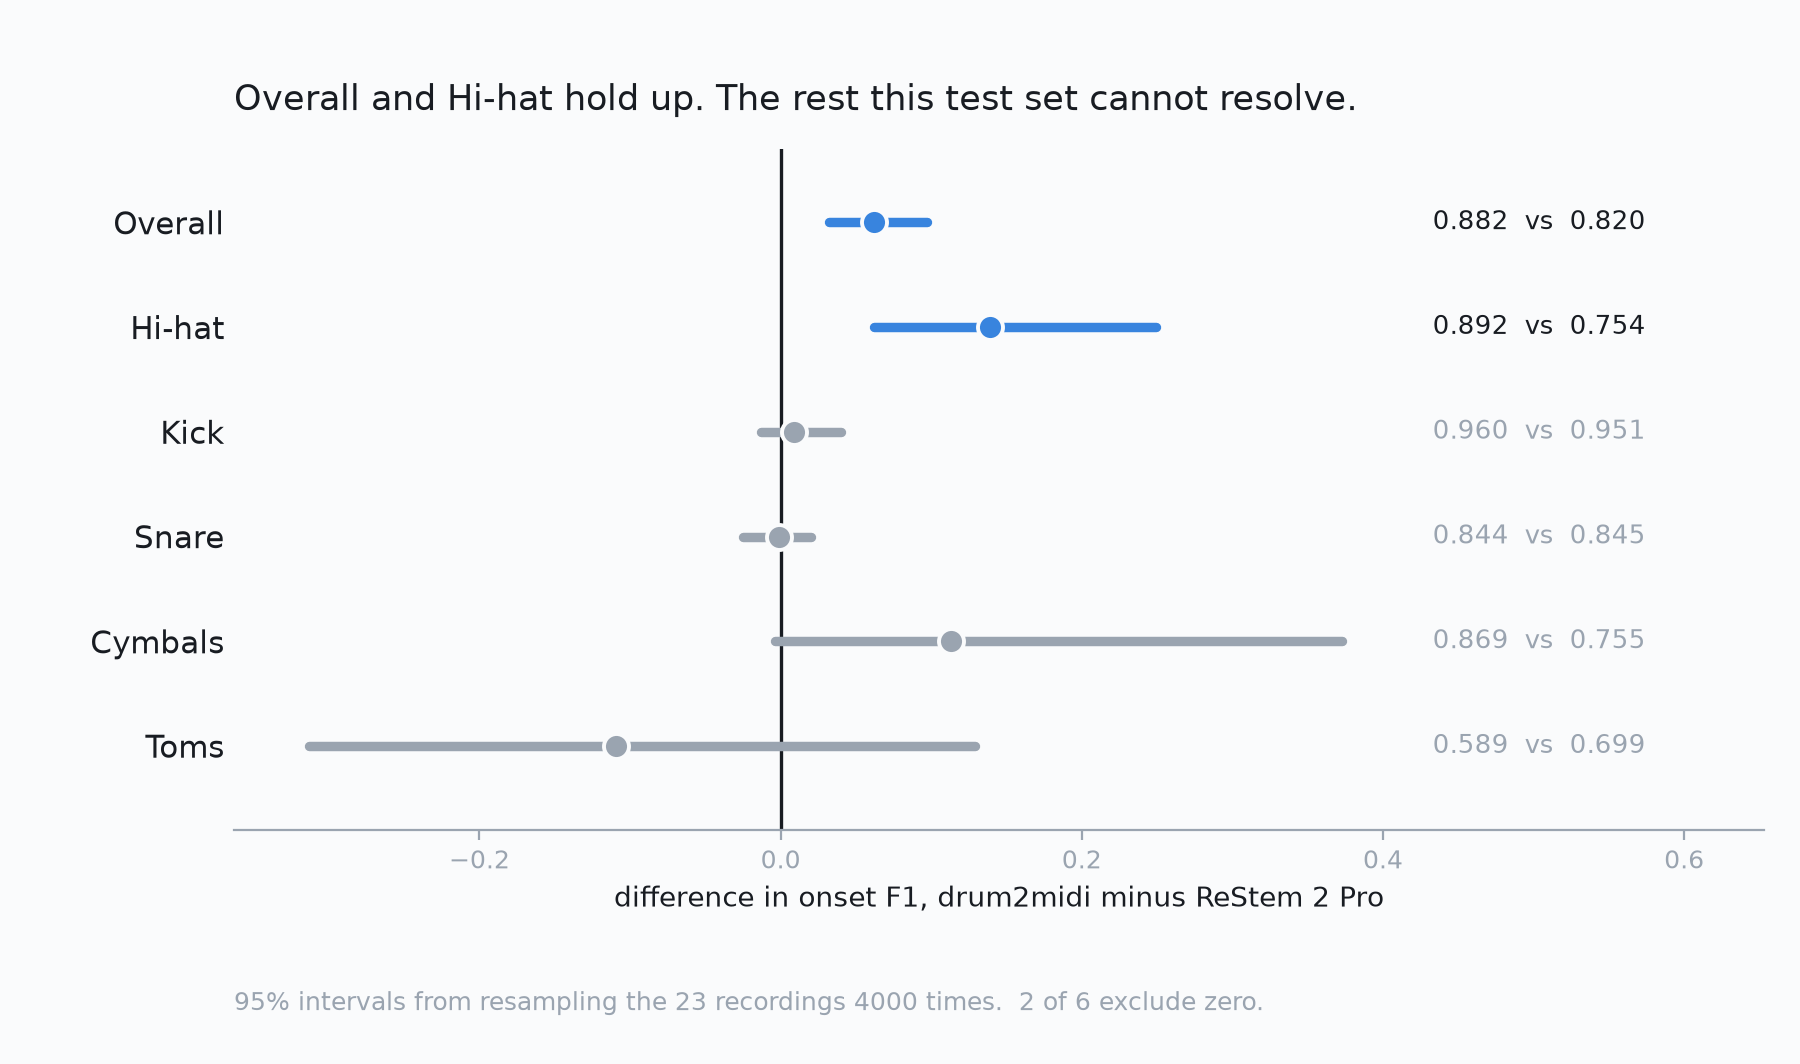
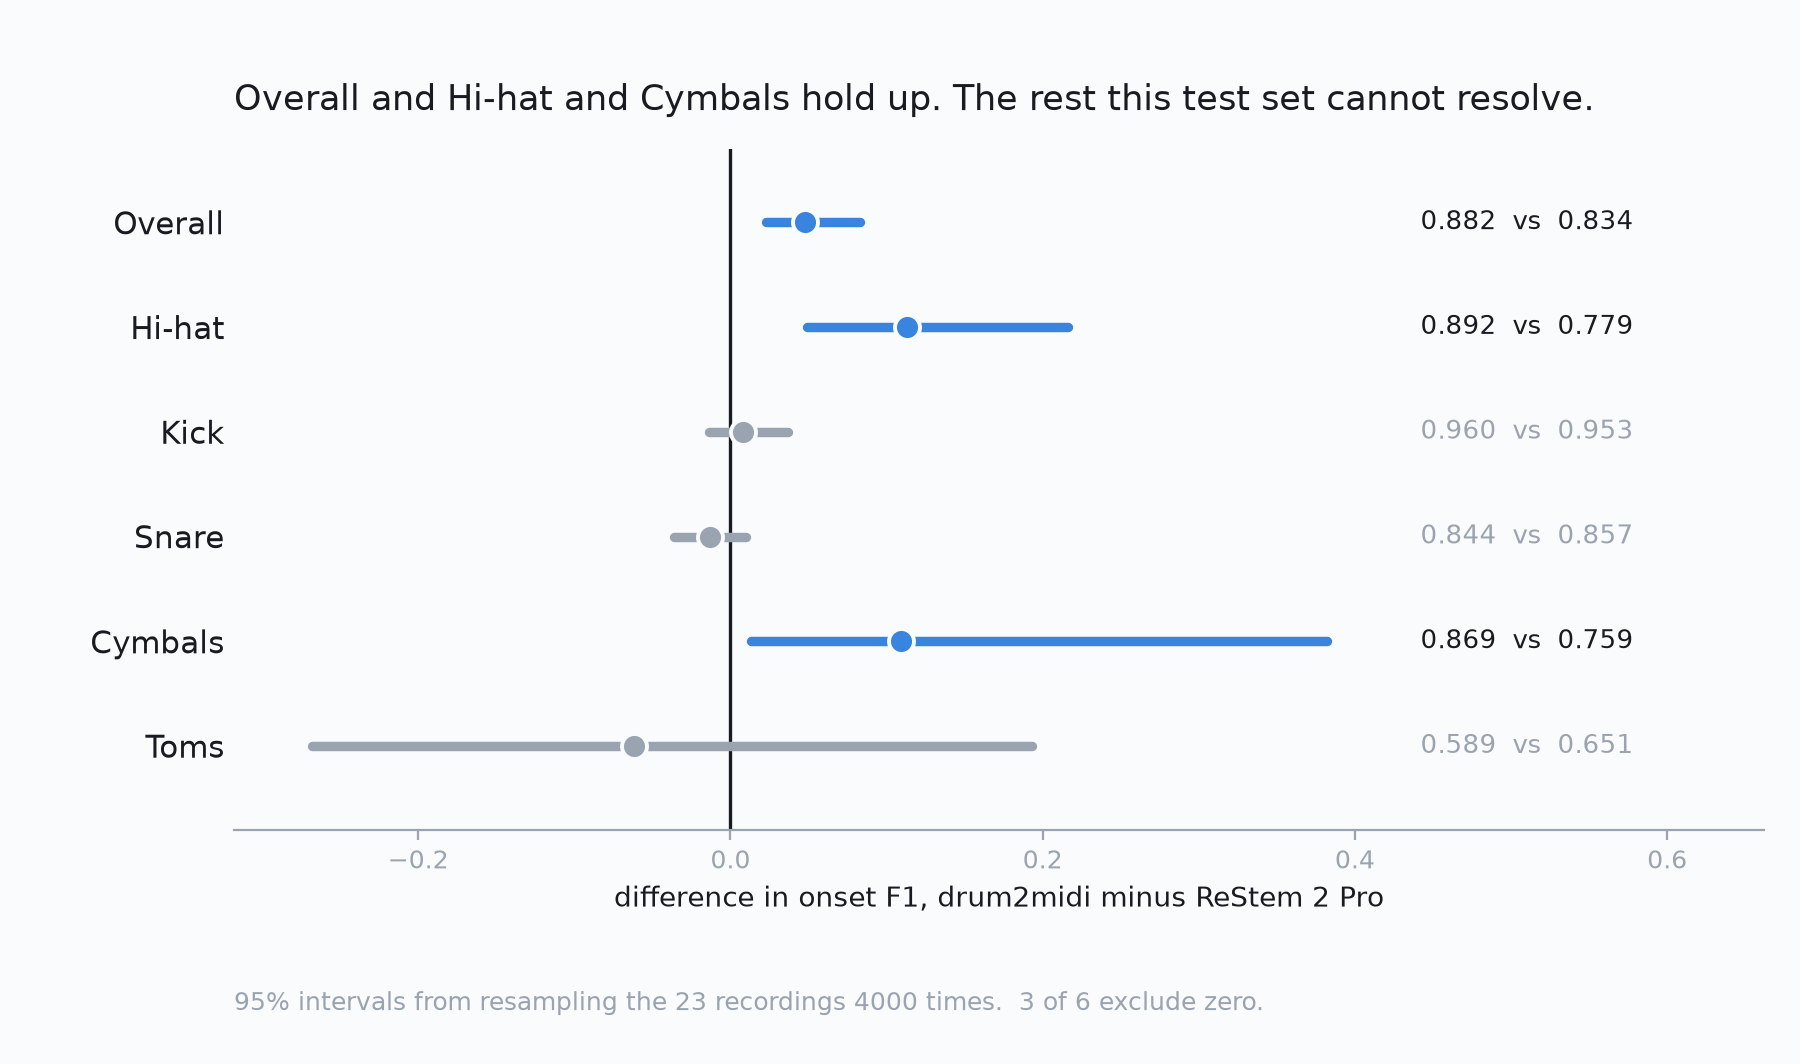
Restated against ReStem best mode: the published margin was measured on its weaker one
He put it plainly earlier: do not claim to be better while running their
product in something other than its best mode. This is the measurement that
settles it, and it goes against us.

All three offline modes have now been rendered across all 23 recordings on
one machine, so no backend or corpus difference is mixed in. Better and Best
Offline are byte-identical on every one of the 23 tracks -- that selector
does not reach their trigger engine at all, and the claim that previously
rested on 3 tracks and 5.6% of events now rests on all of them. Bleed
Reduction is different: it is worth +0.014 MICRO to ReStem.

So the headline becomes 0.882 against 0.834, not 0.820. Our margin falls
from +0.062 to +0.048, interval [+0.023, +0.083], still clear of zero. The
hi-hat margin falls from +0.139 to +0.113. One row moves the other way:
cymbals now excludes zero at [+0.013, +0.382], so three rows are resolved
rather than two.

Per class, Bleed Reduction gains ReStem the snare 0.845 to 0.857 and the
hi-hat 0.754 to 0.779, and costs it the toms 0.699 to 0.651.

The chart is redrawn from the new significance output, the caption follows
it, and the old figure is not quoted anywhere without the note saying it was
the weaker configuration. The letter carries the corrected table and says
which way the correction went.

diff --git a/README.md b/README.md
@@ -14,31 +14,41 @@ in the repository at [`docs/pitch.mp4`](docs/pitch.mp4) for anyone reading this 
 GitHub. The drum track is from the Groove MIDI Dataset, Magenta / Google, CC BY 4.0.</sub>
 
 **Measured against [ReStem 2 Pro](https://restemapp.com/restem2)** — a $199 commercial
-product — on 23 hand-annotated recordings:
+product — on 23 hand-annotated recordings, **in its best mode**:
 
 | | drum2midi | ReStem 2 Pro | 95% CI on the difference |
 |---|---|---|---|
-| **Overall onset F1** | **0.882** | 0.820 | **[+0.032, +0.097]** |
-| Kick | 0.960 | 0.951 | [−0.013, +0.040] |
-| Snare | 0.844 | 0.845 | [−0.025, +0.020] |
-| Hi-hat | **0.892** | 0.754 | **[+0.062, +0.249]** |
-| Cymbals | 0.869 | 0.755 | [−0.004, +0.373] |
-| Toms | 0.589 | 0.699 | [−0.313, +0.129] |
+| **Overall onset F1** | **0.882** | 0.834 | **[+0.023, +0.083]** |
+| Kick | 0.960 | 0.953 | [−0.014, +0.037] |
+| Snare | 0.844 | 0.857 | [−0.036, +0.010] |
+| Hi-hat | **0.892** | 0.779 | **[+0.049, +0.216]** |
+| Cymbals | **0.869** | 0.759 | **[+0.013, +0.382]** |
+| Toms | 0.589 | 0.651 | [−0.268, +0.193] |
 | Ghost notes (recall) | 0.718 | 0.747 | — |
 | Ride vs crash | 0.917 | 0.953 | — |
 | Hi-hat articulation | 0.690 | 0.691 | — |
 
-![The same table as a plot: Overall and Hi-hat exclude zero, the other four straddle it](docs/comparison.png)
+> **This table was restated on 20 September and the earlier one flattered us.** Every
+> figure above had been measured with ReStem in **Better (Offline)**, which is not its
+> best setting. All three of its offline modes have now been rendered across all 23
+> recordings on the same machine: Better and Best (Offline) are **byte-identical on every
+> track**, but **Best + Bleed Reduction is genuinely better for ReStem** — 0.834 against
+> 0.820. Our margin drops from +0.062 to **+0.048** and the hi-hat margin from +0.139 to
+> +0.113. One row moved the other way: cymbals now clears zero. The comparison is against
+> their strongest configuration from here on, and the weaker number is not quoted anywhere
+> without this note.
+
+![The same table as a plot: Overall, Hi-hat and Cymbals exclude zero, the other three straddle it](docs/comparison.png)
 
 *Drawn by `plot_comparison.py` from `significance.py`'s own output, so the picture cannot
 drift from the table. The last three rows have no interval and are not plotted.*
 
-**Only two of those rows mean anything.** The intervals come from resampling the 23
+**Only three of those rows mean anything.** The intervals come from resampling the 23
 recordings 4000 times (`significance.py`), and every row whose interval contains zero is
 a difference this test set cannot resolve. The overall win is real, and it is carried
-almost entirely by the hi-hat. The per-class rows for kick, snare, cymbals and **toms**
-are not evidence of anything: MDB holds just **90 tom onsets, 1.14% of the set**, so the
-tom interval is ±0.22 and spans both directions.
+almost entirely by the hi-hat. The per-class rows for kick, snare and **toms** are not
+evidence of anything: MDB holds just **90 tom onsets, 1.14% of the set**, so the tom
+interval is ±0.23 and spans both directions.
 
 > **⚠ These are our measurements of someone else's product, and they may be wrong.**
 > ReStem's developers were not involved in any of this and have not reviewed it. We are
@@ -73,13 +83,12 @@ tom interval is ±0.22 and spans both directions.
 > raises it. We have asked, and undertaken to re-run all 23 recordings at whatever they
 > say.
 >
-> **Nor is it established that ReStem ran in its best mode.** These runs used Better
-> (Offline), which is byte-identical to Best (Offline) on the three tracks checked. Best
-> (Offline) + Bleed Reduction is a different matter — it changes the output, and has been
-> scored on two tracks, where it was worse for ReStem. Two tracks settles nothing in
-> either direction, so the fair description of this table is *against Better*, not
-> *against ReStem at its best*. All 23 are queued for a Best + Bleed Reduction run and
-> the result is published whichever way it falls.
+> **Its best mode is now the one measured, and it was not before.** These figures use
+> Best (Offline) + Bleed Reduction. All three offline modes were rendered across all 23
+> recordings on one machine: Better and Best (Offline) came out byte-identical on every
+> track, so that pair is settled, and Bleed Reduction is worth +0.014 MICRO to ReStem.
+> The earlier published figure of 0.820 was its weaker configuration and has been
+> restated rather than quietly replaced.
 >
 > The ReStem team have not been written to yet. The letter is written and not sent, and
 > publication was deliberately not made to wait on it — which means that as things stand
@@ -895,18 +904,15 @@ people with an obvious stake in the answer. Seven specific reasons to hold it lo
   regrouping the tracks by genre and dropping a whole genre moves the delta by at most
   0.015, against a published interval of ±0.032 — so *that* form of unrepresentativeness
   does not reach the answer. Which is a narrower reassurance than it sounds.
-- **It has not been established that ReStem ran in its best mode, and that matters more
-  than the rest of this list.** The 23 renders used Better (Offline). Better and Best
-  (Offline) are byte-identical on the three tracks rendered both ways, so that choice
-  appears to cost ReStem nothing. But Best (Offline) **+ Bleed Reduction** genuinely
-  differs — it moved the events on all three — and it has only ever been *scored* on two,
-  where it came out lower for ReStem (0.466 against 0.500; 0.915 against 0.931). Two
-  tracks is not a basis for concluding that their most expensive setting is their weaker
-  one, and it is not a basis on which to claim a win either. Until all 23 have been
-  rendered in Best + Bleed Reduction and scored, **the honest statement is that this
-  comparison is against Better, not against ReStem at its best, and we do not yet know
-  whether those differ.** That run is queued; whichever way it comes out is published, and
-  if Best + Bleed Reduction scores higher the headline is restated against it.
+- **~~It has not been established that ReStem ran in its best mode.~~ Settled, and we
+  were using the weaker one.** All three offline modes have now been rendered across all
+  23 recordings on a single machine. Better and Best (Offline) are byte-identical on
+  every track, so that choice never cost ReStem anything. Best + Bleed Reduction is a
+  different matter: it is worth **+0.014 MICRO to ReStem**, 0.834 against 0.820, and the
+  published comparison had been measured against the weaker setting. The table has been
+  restated. Two of the differences this changes are worth naming: Bleed Reduction gains
+  ReStem the snare (0.845 → 0.857) and the hi-hat (0.754 → 0.779) and costs it the toms
+  (0.699 → 0.651).
 - **ReStem was never run on a second corpus.** Our own 0.935 on IDMT-SMT-Drums is a
   second-corpus check on us alone; the comparison has none. Nor is MDB the largest real
   corpus here — ENST-Drums holds 210 recordings, 106 minutes and 45,097 onsets of real
@@ -1024,9 +1030,11 @@ and it classifies toms **by fundamental pitch** — the same approach as our `sp
 
 Stated the way the evidence supports, rather than by reading off the bigger number:
 
-**drum2midi is measurably better** at the hi-hat (0.892 vs 0.754, interval
-[+0.062, +0.249]) and therefore overall (0.882 vs 0.820, [+0.032, +0.097]). The overall
-win is essentially the hi-hat win.
+**drum2midi is measurably better** at the hi-hat (0.892 vs 0.779, interval
+[+0.049, +0.216]), at the cymbals (0.869 vs 0.759, [+0.013, +0.382]) and therefore
+overall (0.882 vs 0.834, [+0.023, +0.083]). The overall win is still carried mostly by
+the hi-hat. Those figures are against ReStem in Best + Bleed Reduction, its best mode;
+an earlier version of this section used Better and reported a larger margin.
 
 > **⚠ The hi-hat gap is over-firing, not articulation — and an earlier version of this
 > box said otherwise.**
